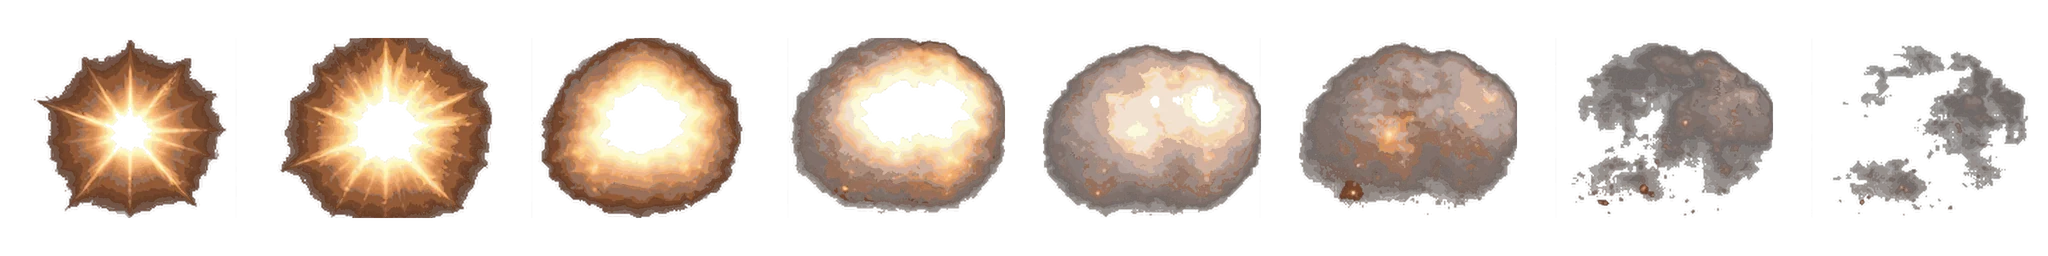
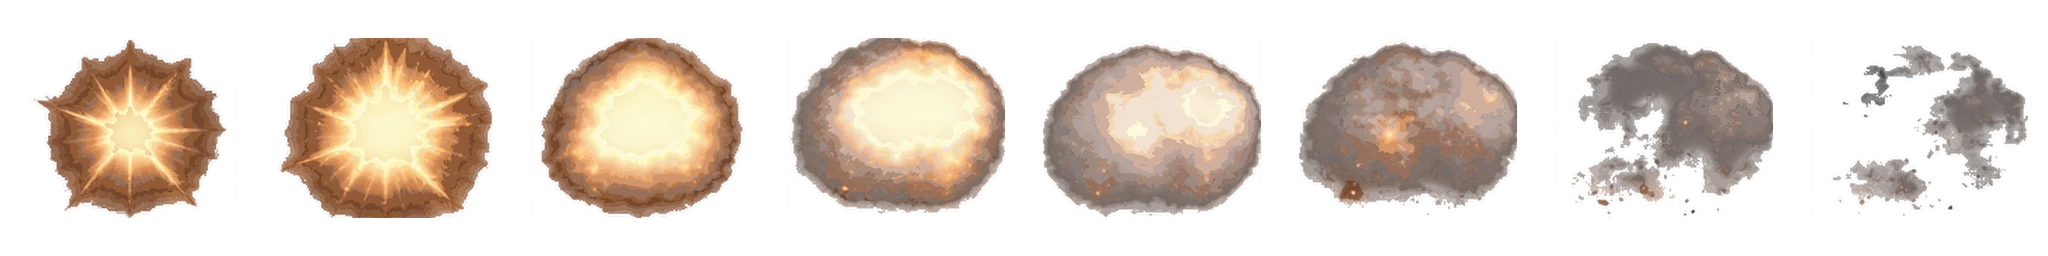
R67i: تصليح رسمة الانفجار — سد الفراغات الغامقة في الدخان والحلقة وتنظيف حدود اللقطات
Claude-Session: https://claude.ai/code/session_013Dw5YXk6gdhBXsie6KboY7

diff --git a/public/sw.js b/public/sw.js
@@ -1,10 +1,10 @@
 /* لعبك — عامل الخدمة: تحديث الشبكة أولاً، واللعب الجماعي يحتاج اتصال. */
 const CACHE_PREFIX = 'la3bak-shell-';
-const VER = CACHE_PREFIX + 'r67h';
+const VER = CACHE_PREFIX + 'r67i';
 const LEGACY_SHELL_CACHES = ['la3bak-rank-vip-1'];
 // Deduplicate exact URLs; keep the existing network-first/offline policy.
 // The unused legacy codewords image is not precached; the shipped R45 cover stays.
-const SHELL = [...new Set(['/root-navigation-r50.js?v=back-nav-r51', '/preview/assets/game-minaboli-3d-r49.webp', '/preview/assets/game-codewords-3d-r45.webp', '/emerald-r44.css?v=r58q', '/unified/emerald-room-r44.css?v=r58p', '/unified/gift-compact-r38.css?v=r58p','/unified/room-owner-start-r33.css?v=r58q','/social-room-tools-r33.css?v=r58p','/community-access-r37.js','/unified/notifications.js?v=r66a','/social-room-tools-r33.js?v=r58p','/room-start-r33.js','/social-gift-context-r33.js','/gift3d-variants-r33.js','/unified/pk-reference-r32.css?v=r58p','/social-challenge.js?v=r57','/social-challenge.css?v=r58p','/room-photo-r31.js?v=room-photo-r31','/unified/room-photo-r31.css?v=r58q','/social-directory-r30.js?v=r63a','/unified/room-directory-r30.css?v=r58q','/unified/room-style-r27.css?v=r58p', '/unified/reference-room-r28.css?v=r58q', '/unified/reference-panels-r28.css?v=r58q', '/unified/reference-gifts-r28.css?v=r58q', '/unified/gift-colors-r29.css?v=r58p', '/unified/room-dock-r29.css?v=r58p', '/cannon3d-r29.css?v=r58p', '/cannon3d-r29.js?v=gifts-cannon-r29','/social-room-controls-r27.js?v=r58s','/gift3d-r27.js?v=emerald-r44','/gift3d-r27.css','/gift-assets-r27.js?v=catalog-r35','/social-gift-runtime-r27.js?v=r63a','/social-cannon-ui-r27.js?v=r63b','/social-challenge.js?v=r57','/social-challenge.css?v=r58p','/store-r23.css?v=r58p','/frame-art-r23.css?v=r58i2','/entrancefx-r23.js?v=r58r','/entrancefx-r23.css?v=emerald-r44','/preview/profile-head-r20.css?v=r58p', '/preview/profile-head-r22.css?v=r58p','/preview/profile-list-r19.css?v=r58p','/unified/room-composer-r18.css?v=r58p','/unified/global-search.js?v=global-search-r17','/unified/global-search.css?v=r58p','/unified/search-icon.js?v=global-search-r17','/preview/profile-frame-r4.css?v=r58p', '/brand-royal-r16.css?v=r58p', '/preview/profile-host-r15.css?v=emerald-r44','/unified/ranks.js?v=r66b', '/unified/ranks.css?v=r58p', '/unified/vip.js?v=r66b', '/unified/vip.css?v=r58p', '/unified/vip-noble-r52.js?v=r66b', '/unified/vip-noble-r52.css?v=r58q', '/profile-social-r53.js?v=r63a', '/preview/profile-r53.css?v=r58q', '/preview/rank-overview.js?v=r66b', '/preview/rank-overview.css?v=r58p', '/preview/rank-current.css?v=r58p', '/unified/backgrounds.js?v=r63b', '/unified/backgrounds.css?v=r58q', '/background-art.js?v=r58p', '/', '/preview.html?v=release-r14', '/app.css?v=r58q', '/reference-store.css?v=r58p', '/unified/home.css?v=r58p', '/unified/home.js?v=r63a', '/unified/unified.css?v=r60d', '/unified/shell.js?v=r67g', '/preview/profile.css?v=r58p', '/preview/profile-integration.css?v=r58p', '/preview/profile-match.css?v=r58q', '/preview/page-shell.css?v=r58p', '/preview/shop-modern.css?v=r58p', '/preview/app.js?v=r67g', '/preview/profile.js?v=r66b', '/preview/assets/profile/ui-icons-inline.js?v=r58p', '/preview/assets/profile/rank-display.js', '/pwa.js?v=r62e', '/boot.js?v=r64a', '/theme.js?v=r64a', '/theme.js?v=r64a', '/royal-gameplay.css?v=r58p', '/royal-navigation.css?v=r58p', '/auth.js', '/manifest.webmanifest', '/favicon.svg', '/apple-touch-icon.png', '/game-availability.js?v=games-royal-1', '/games.js?v=r59d',   '/offline.js?v=games-royal-1', '/unified/games.js?v=r57', '/unified/social.js?v=r67g', '/rank-perks-r56.js?v=r58i', '/rank-perks-r56.css?v=r56', '/unified/social-r55.css?v=r58q', '/unified/social.css?v=r58p', '/social-voice.js?v=release-r14', '/social-assets/majlis-atmosphere.webp', '/admin.js?v=r66a', '/admin-bulk-grants.js?v=r66a', '/admin-bulk-grants.css?v=r58p', '/preview/rank-current.css?v=r58p', '/preview/rank-overview.js?v=r66b', '/unified/payments.js?v=r63a', '/account-tools.js?v=ui-correction-r3', '/account-verification.css?v=r58q', '/unified/social-room-r7.css?v=r58p', '/social-gifts.js?v=r63a', '/social-assets/voice-night-r7.jpg', '/social-assets/friends-room-cover.webp', '/unified/wallet.js?v=r63b', '/shop.js?v=r63b', '/unified/store.js?v=r63b', '/unified/backgrounds.js?v=r63b', '/unified/payments.js?v=r63a', '/unified/payments.css?v=r58p', '/unified/social-settings-r12.css?v=r58p', '/social-benefits.js?v=r63a', '/unified/social-benefits-r12.css?v=r58q', '/gifts.js?v=r63a', '/gift-reward-ui.js?v=r63a', '/unified/gift-rewards-r13.css?v=r58p', '/giftart.js?v=release-r14', '/unified/game-voice-r9.css?v=r58p'])];
+const SHELL = [...new Set(['/root-navigation-r50.js?v=back-nav-r51', '/preview/assets/game-minaboli-3d-r49.webp', '/preview/assets/game-codewords-3d-r45.webp', '/emerald-r44.css?v=r58q', '/unified/emerald-room-r44.css?v=r58p', '/unified/gift-compact-r38.css?v=r58p','/unified/room-owner-start-r33.css?v=r58q','/social-room-tools-r33.css?v=r58p','/community-access-r37.js','/unified/notifications.js?v=r66a','/social-room-tools-r33.js?v=r58p','/room-start-r33.js','/social-gift-context-r33.js','/gift3d-variants-r33.js','/unified/pk-reference-r32.css?v=r58p','/social-challenge.js?v=r57','/social-challenge.css?v=r58p','/room-photo-r31.js?v=room-photo-r31','/unified/room-photo-r31.css?v=r58q','/social-directory-r30.js?v=r63a','/unified/room-directory-r30.css?v=r58q','/unified/room-style-r27.css?v=r58p', '/unified/reference-room-r28.css?v=r58q', '/unified/reference-panels-r28.css?v=r58q', '/unified/reference-gifts-r28.css?v=r58q', '/unified/gift-colors-r29.css?v=r58p', '/unified/room-dock-r29.css?v=r58p', '/cannon3d-r29.css?v=r58p', '/cannon3d-r29.js?v=gifts-cannon-r29','/social-room-controls-r27.js?v=r58s','/gift3d-r27.js?v=emerald-r44','/gift3d-r27.css','/gift-assets-r27.js?v=catalog-r35','/social-gift-runtime-r27.js?v=r63a','/social-cannon-ui-r27.js?v=r63b','/social-challenge.js?v=r57','/social-challenge.css?v=r58p','/store-r23.css?v=r58p','/frame-art-r23.css?v=r58i2','/entrancefx-r23.js?v=r58r','/entrancefx-r23.css?v=emerald-r44','/preview/profile-head-r20.css?v=r58p', '/preview/profile-head-r22.css?v=r58p','/preview/profile-list-r19.css?v=r58p','/unified/room-composer-r18.css?v=r58p','/unified/global-search.js?v=global-search-r17','/unified/global-search.css?v=r58p','/unified/search-icon.js?v=global-search-r17','/preview/profile-frame-r4.css?v=r58p', '/brand-royal-r16.css?v=r58p', '/preview/profile-host-r15.css?v=emerald-r44','/unified/ranks.js?v=r66b', '/unified/ranks.css?v=r58p', '/unified/vip.js?v=r66b', '/unified/vip.css?v=r58p', '/unified/vip-noble-r52.js?v=r66b', '/unified/vip-noble-r52.css?v=r58q', '/profile-social-r53.js?v=r63a', '/preview/profile-r53.css?v=r58q', '/preview/rank-overview.js?v=r66b', '/preview/rank-overview.css?v=r58p', '/preview/rank-current.css?v=r58p', '/unified/backgrounds.js?v=r63b', '/unified/backgrounds.css?v=r58q', '/background-art.js?v=r58p', '/', '/preview.html?v=release-r14', '/app.css?v=r58q', '/reference-store.css?v=r58p', '/unified/home.css?v=r58p', '/unified/home.js?v=r63a', '/unified/unified.css?v=r60d', '/unified/shell.js?v=r67i', '/preview/profile.css?v=r58p', '/preview/profile-integration.css?v=r58p', '/preview/profile-match.css?v=r58q', '/preview/page-shell.css?v=r58p', '/preview/shop-modern.css?v=r58p', '/preview/app.js?v=r67i', '/preview/profile.js?v=r66b', '/preview/assets/profile/ui-icons-inline.js?v=r58p', '/preview/assets/profile/rank-display.js', '/pwa.js?v=r62e', '/boot.js?v=r64a', '/theme.js?v=r64a', '/theme.js?v=r64a', '/royal-gameplay.css?v=r58p', '/royal-navigation.css?v=r58p', '/auth.js', '/manifest.webmanifest', '/favicon.svg', '/apple-touch-icon.png', '/game-availability.js?v=games-royal-1', '/games.js?v=r59d',   '/offline.js?v=games-royal-1', '/unified/games.js?v=r57', '/unified/social.js?v=r67i', '/rank-perks-r56.js?v=r58i', '/rank-perks-r56.css?v=r56', '/unified/social-r55.css?v=r58q', '/unified/social.css?v=r58p', '/social-voice.js?v=release-r14', '/social-assets/majlis-atmosphere.webp', '/admin.js?v=r66a', '/admin-bulk-grants.js?v=r66a', '/admin-bulk-grants.css?v=r58p', '/preview/rank-current.css?v=r58p', '/preview/rank-overview.js?v=r66b', '/unified/payments.js?v=r63a', '/account-tools.js?v=ui-correction-r3', '/account-verification.css?v=r58q', '/unified/social-room-r7.css?v=r58p', '/social-gifts.js?v=r63a', '/social-assets/voice-night-r7.jpg', '/social-assets/friends-room-cover.webp', '/unified/wallet.js?v=r63b', '/shop.js?v=r63b', '/unified/store.js?v=r63b', '/unified/backgrounds.js?v=r63b', '/unified/payments.js?v=r63a', '/unified/payments.css?v=r58p', '/unified/social-settings-r12.css?v=r58p', '/social-benefits.js?v=r63a', '/unified/social-benefits-r12.css?v=r58q', '/gifts.js?v=r63a', '/gift-reward-ui.js?v=r63a', '/unified/gift-rewards-r13.css?v=r58p', '/giftart.js?v=release-r14', '/unified/game-voice-r9.css?v=r58p'])];
 self.addEventListener('install', (e) => {
   e.waitUntil(caches.open(VER).then((c) => Promise.all(SHELL.map((u) => c.add(new Request(u, { cache: 'reload' })).catch(() => {})))).then(() => self.skipWaiting()));
 });

diff --git a/public/index.html b/public/index.html
@@ -25,8 +25,8 @@
 <link rel="preconnect" href="https://fonts.googleapis.com">
 <link rel="preconnect" href="https://fonts.gstatic.com" crossorigin>
 <!-- Exact URLs used by app.js/shell.js: modulepreload warms, never forks module state. -->
-<link rel="modulepreload" href="/preview/app.js?v=r67g">
-<link rel="modulepreload" href="/unified/shell.js?v=r67g">
+<link rel="modulepreload" href="/preview/app.js?v=r67i">
+<link rel="modulepreload" href="/unified/shell.js?v=r67i">
 <link rel="modulepreload" href="/unified/home.js?v=r63a">
 <link rel="modulepreload" href="/preview/profile.js?v=r66b">
 <link rel="stylesheet" href="/app.css?v=r58q">
@@ -87,7 +87,7 @@
 <link rel="stylesheet" href="/room-upgrade-r47.css?v=r58p">
 <link rel="stylesheet" href="/auction-r47.css?v=r58p">
 <link rel="stylesheet" href="/family-r47.css?v=build-all-r47">
-<link rel="stylesheet" href="/room-r67.css?v=r67h">
+<link rel="stylesheet" href="/room-r67.css?v=r67i">
 <link rel="stylesheet" href="/badge-r64.css?v=r66a">
 </head>
 <body class="reference-ui">
@@ -140,6 +140,6 @@
 <script type="module" src="/friends-live-r58.js?v=r58u"></script>
 <script type="module" src="/cp-r58.js?v=r67a"></script>
 <script type="module" src="/tribe-r58.js?v=r63a"></script>
-<script type="module" src="/preview/app.js?v=r67g"></script>
+<script type="module" src="/preview/app.js?v=r67i"></script>
 </body>
 </html>

diff --git a/public/preview.html b/public/preview.html
@@ -25,8 +25,8 @@
 <link rel="preconnect" href="https://fonts.googleapis.com">
 <link rel="preconnect" href="https://fonts.gstatic.com" crossorigin>
 <!-- Exact URLs used by app.js/shell.js: modulepreload warms, never forks module state. -->
-<link rel="modulepreload" href="/preview/app.js?v=r67g">
-<link rel="modulepreload" href="/unified/shell.js?v=r67g">
+<link rel="modulepreload" href="/preview/app.js?v=r67i">
+<link rel="modulepreload" href="/unified/shell.js?v=r67i">
 <link rel="modulepreload" href="/unified/home.js?v=r63a">
 <link rel="modulepreload" href="/preview/profile.js?v=r66b">
 <link rel="stylesheet" href="/app.css?v=r58q">
@@ -77,7 +77,7 @@
 <link rel="stylesheet" href="/room-r58.css?v=r66a">
 <link rel="stylesheet" href="/dark-r62.css?v=r64a">
 <link rel="stylesheet" href="/art58-r58l.css?v=r59b">
-<link rel="stylesheet" href="/room-r67.css?v=r67h">
+<link rel="stylesheet" href="/room-r67.css?v=r67i">
 <link rel="stylesheet" href="/badge-r64.css?v=r66a">
 </head>
 <body class="reference-ui">
@@ -130,6 +130,6 @@
 <script type="module" src="/friends-live-r58.js?v=r58u"></script>
 <script type="module" src="/cp-r58.js?v=r67a"></script>
 <script type="module" src="/tribe-r58.js?v=r63a"></script>
-<script type="module" src="/preview/app.js?v=r67g"></script>
+<script type="module" src="/preview/app.js?v=r67i"></script>
 </body>
 </html>

diff --git a/public/room-r67.css b/public/room-r67.css
@@ -203,7 +203,7 @@
 @keyframes c67bSheet{0%{opacity:1;background-position-x:0%}99%{opacity:1}100%{opacity:0;background-position-x:100%}}
 .c67b-fws{position:absolute;inset:0;pointer-events:none;}
 .c67b-fw{mix-blend-mode:screen;position:absolute;left:var(--x);top:var(--y);width:calc(170px * var(--s));aspect-ratio:1;margin:calc(-85px * var(--s));background:0 0/800% 100% no-repeat;opacity:0;animation:c67bSheet 1.1s steps(8,jump-none) forwards;}
-.c67b-boom{clip-path:inset(4%);mix-blend-mode:screen;position:absolute;top:44%;left:50%;width:min(130vw,620px);aspect-ratio:1;transform:translate(-50%,-50%);background:url(/assets/art67/cannon/boom-sheet.webp?v=r67g) 0 0/800% 100% no-repeat;opacity:0;pointer-events:none;}
+.c67b-boom{clip-path:inset(4%);mix-blend-mode:screen;position:absolute;top:44%;left:50%;width:min(130vw,620px);aspect-ratio:1;transform:translate(-50%,-50%);background:url(/assets/art67/cannon/boom-sheet.webp?v=r67i) 0 0/800% 100% no-repeat;opacity:0;pointer-events:none;}
 .c67b.is-boom .c67b-boom{animation:c67bSheet 1.2s steps(8,jump-none) forwards;}
 .c67b .c59-flash,.c67b .c59-spark{top:44%;}
 .c67b.is-boom .c67b-num{opacity:0;transform:translate(-50%,-50%) scale(1.6);transition:opacity .3s,transform .3s;}

diff --git a/public/unified/shell.js b/public/unified/shell.js
@@ -15,7 +15,7 @@ import * as store from './store.js?v=r63b';
 import * as payments from './payments.js?v=r63a';
 import * as ranks from './ranks.js?v=r66b';
 import * as vip from './vip.js?v=r66b';
-import * as social from './social.js?v=r67g';
+import * as social from './social.js?v=r67i';
 const modules={home,rooms,wallet,notifications,messages,friends,ranking,games,settings,store,payments,ranks,vip,social};
 export const routes=Object.freeze(['home','rooms','social-rooms','social-room','wallet','notifications','notifications-internal','messages','friends','leaderboard','games','settings','shop','payments','ranks','vip','game','hub','room','join','city','lobby','play','offline','daily','challenge','events','tournaments','support','contact','auction','family','missions','visitors','invite','verification','rank-rewards','about','privacy','terms','agreement','privacy-settings','account-info','devices','hidden-posts','community','post','u','not-found']);
 export const hasRoute=name=>routes.includes(name);

diff --git a/public/unified/social.js b/public/unified/social.js
@@ -11,7 +11,7 @@ import {framed as frameOwnedPortrait} from '../shop.js?v=r63b';
 import { createEntranceFX } from '../entrancefx-r23.js?v=r58r';
 import { createSocialChallenge, renderSetup, validateTeams, preserveScorebar } from '../social-challenge.js?v=r57';
 import {attachGiftRuntime,receiveGiftRuntime,clearGiftRuntime,giftRuntimeMetrics,giftArtwork} from '../social-gift-runtime-r27.js?v=r63a';
-import {cannon3Shortcut,cannon3Panel,cannon3Blast} from './room-cannon-r59.js?v=r67g';
+import {cannon3Shortcut,cannon3Panel,cannon3Blast} from './room-cannon-r59.js?v=r67i';
 import {cannonPanel,cannonShortcut,createCannonEffects} from '../social-cannon-ui-r27.js?v=r63b';
 /* Social rooms only. Parent owns routes, session, authenticated api and shell.
  * The live controller outlives DOM mounts. No implicit room/council join on render. */

diff --git a/public/unified/room-cannon-r59.js b/public/unified/room-cannon-r59.js
@@ -39,7 +39,7 @@ export function cannon3Panel(m, view, help = false) {
 }
 const seen = new Set();
 /** R67b الانفجار بالرسومات الجديدة: الدائرة الذهبية تدور، أعلى مساهم بالإطار، أرقام ذهبية 5→1، المدفع يطلق والألعاب النارية، انفجار، وبعدين «تهانينا!». */
-const FX = '/assets/art67/cannon/', FXV = 'r67g';
+const FX = '/assets/art67/cannon/', FXV = 'r67i';
 const fx = (n) => `${FX}${n}.webp?v=${FXV}`;
 const CANNON_ART = ['cannon-green', 'cannon-red', 'cannon-purple'];
 const FW = ['fireworks-gold', 'fireworks-purple', 'fireworks-pink'];

diff --git a/public/preview/app.js b/public/preview/app.js
@@ -1,8 +1,8 @@
 import { createGlobalSearch } from '../unified/global-search.js?v=global-search-r17';
 import * as PR from './profile.js?v=r66b';
-import * as UNIFIED from '../unified/shell.js?v=r67g';
+import * as UNIFIED from '../unified/shell.js?v=r67i';
 import * as REF from '../unified/home.js?v=r63a';
-import * as SOCIAL from '../unified/social.js?v=r67g';
+import * as SOCIAL from '../unified/social.js?v=r67i';
 const { leaveSocial, refreshSocial } = SOCIAL;
 import { isRetiredGame, visibleGameCatalogue, retiredGameHTML } from '../game-availability.js?v=games-royal-1';
 import { createSocialGiftStore } from '../social-gifts.js?v=r63a';
